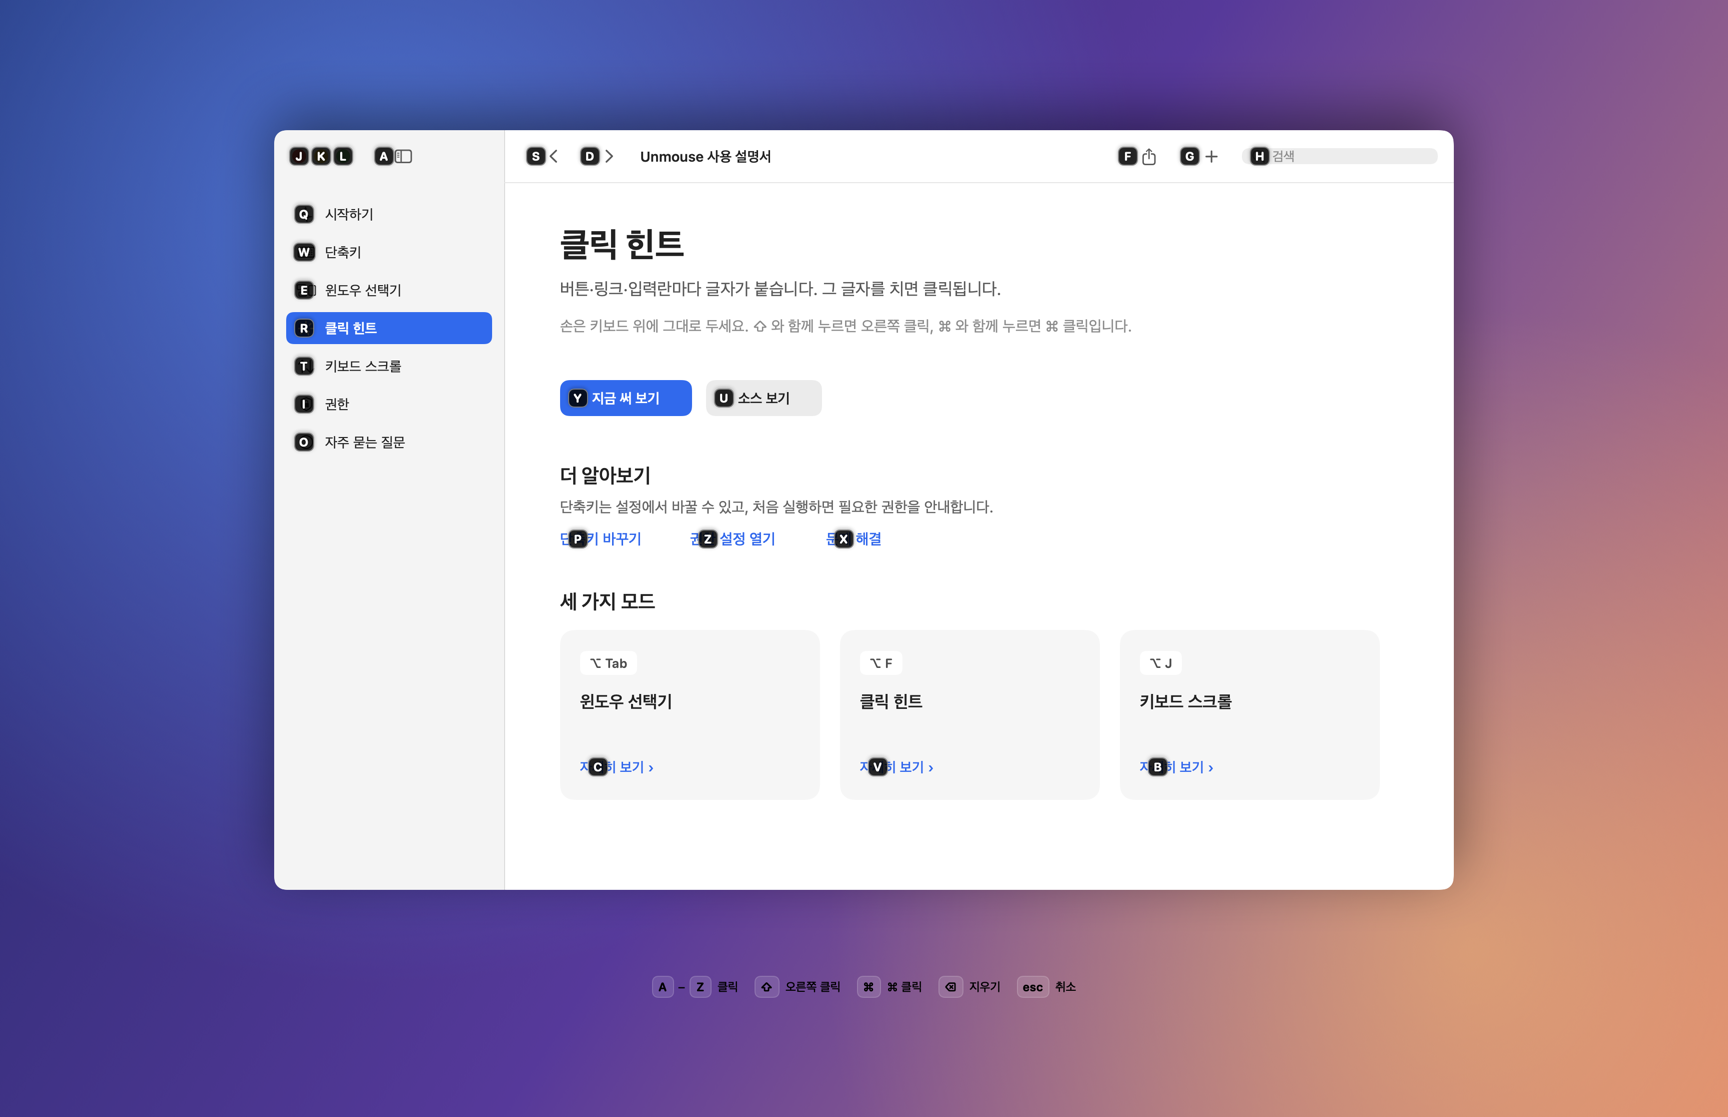
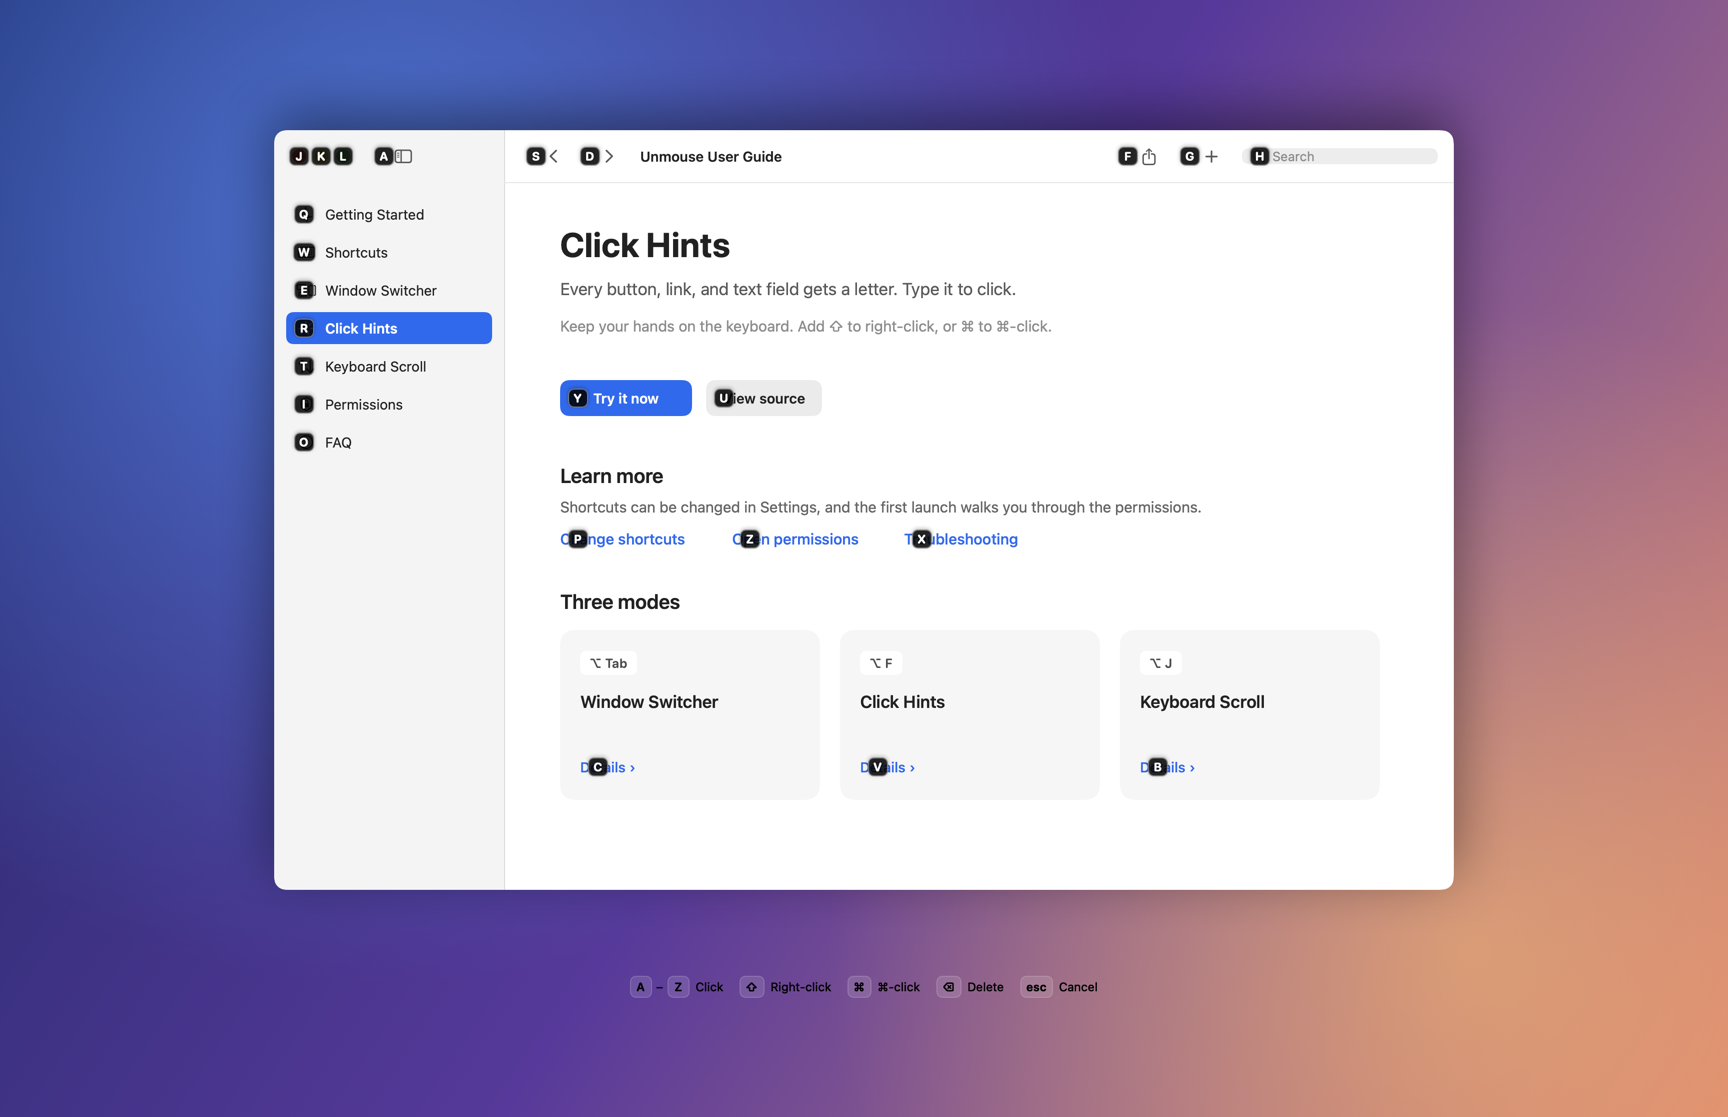
docs: regenerate README screenshots with the English UI (#4)
- 소스의 UI 문자열을 영어로 바꾸고 String(localized:) / LocalizedStringKey 로 조회
- Resources/ko.lproj/Localizable.strings 에 한국어 번역 87개, en.lproj 추가
- Info.plist 개발 지역을 en 으로, CFBundleLocalizations 에 en·ko 지정
- build-app.sh 가 .lproj 를 앱 번들에 복사
- 데모 목업과 README 스크린샷을 영어로 다시 생성, README 에 번역 안내 추가

diff --git a/Sources/Unmouse/Demo.swift b/Sources/Unmouse/Demo.swift
@@ -15,15 +15,15 @@ enum Demo {
 
         // 윈도우 선택기
         let mocks: [(app: String, title: String, path: String, frame: CGRect, location: WindowInfo.Location, view: AnyView)] = [
-            ("Safari", "Unmouse 사용 설명서", "/Applications/Safari.app",
+            ("Safari", "Unmouse User Guide", "/Applications/Safari.app",
              CGRect(x: 90, y: 70, width: 1180, height: 760), .visible, AnyView(MockDocument())),
-            ("터미널", "unmouse — zsh", "/System/Applications/Utilities/Terminal.app",
+            ("Terminal", "unmouse — zsh", "/System/Applications/Utilities/Terminal.app",
              CGRect(x: 940, y: 560, width: 720, height: 460), .visible, AnyView(MockTerminal())),
-            ("메모", "회의 메모", "/System/Applications/Notes.app",
+            ("Notes", "Meeting Notes", "/System/Applications/Notes.app",
              CGRect(x: 60, y: 600, width: 620, height: 440), .visible, AnyView(MockNotes())),
-            ("캘린더", "", "/System/Applications/Calendar.app",
-             CGRect(x: 0, y: 0, width: 980, height: 660), .otherSpace("데스크탑 2"), AnyView(MockCalendar())),
-            ("Finder", "문서", "/System/Library/CoreServices/Finder.app",
+            ("Calendar", "", "/System/Applications/Calendar.app",
+             CGRect(x: 0, y: 0, width: 980, height: 660), .otherSpace("Desktop 2"), AnyView(MockCalendar())),
+            ("Finder", "Documents", "/System/Library/CoreServices/Finder.app",
              CGRect(x: 0, y: 0, width: 860, height: 540), .minimized, AnyView(MockFinder())),
         ]
         var windows: [WindowInfo] = []
@@ -115,9 +115,9 @@ struct MockDocument: View {
     static let contentArea = CGRect(x: sidebarWidth, y: barHeight, width: size.width - sidebarWidth, height: size.height - barHeight)
 
     static let sidebarItems: [(String, String)] = [
-        ("sparkles", "시작하기"), ("keyboard", "단축키"), ("rectangle.3.group", "윈도우 선택기"),
-        ("cursorarrow.rays", "클릭 힌트"), ("arrow.up.arrow.down", "키보드 스크롤"),
-        ("lock.shield", "권한"), ("questionmark.circle", "자주 묻는 질문"),
+        ("sparkles", "Getting Started"), ("keyboard", "Shortcuts"), ("rectangle.3.group", "Window Switcher"),
+        ("cursorarrow.rays", "Click Hints"), ("arrow.up.arrow.down", "Keyboard Scroll"),
+        ("lock.shield", "Permissions"), ("questionmark.circle", "FAQ"),
     ]
     static let selectedRow = 3
     static func sidebarRow(_ index: Int) -> CGRect {
@@ -139,12 +139,12 @@ struct MockDocument: View {
     static let primaryButton = CGRect(x: contentX, y: 250, width: 132, height: 36)
     static let secondaryButton = CGRect(x: contentX + 146, y: 250, width: 116, height: 36)
     static let links: [(String, CGRect)] = [
-        ("단축키 바꾸기", CGRect(x: contentX, y: 398, width: 98, height: 22)),
-        ("권한 설정 열기", CGRect(x: contentX + 130, y: 398, width: 104, height: 22)),
-        ("문제 해결", CGRect(x: contentX + 266, y: 398, width: 68, height: 22)),
+        ("Change shortcuts", CGRect(x: contentX, y: 398, width: 140, height: 22)),
+        ("Open permissions", CGRect(x: contentX + 172, y: 398, width: 140, height: 22)),
+        ("Troubleshooting", CGRect(x: contentX + 344, y: 398, width: 130, height: 22)),
     ]
     static let cards: [(String, String, CGRect)] = (0..<3).map { index in
-        let titles = ["윈도우 선택기", "클릭 힌트", "키보드 스크롤"]
+        let titles = ["Window Switcher", "Click Hints", "Keyboard Scroll"]
         let keys = ["⌥ Tab", "⌥ F", "⌥ J"]
         return (titles[index], keys[index], CGRect(x: contentX + CGFloat(index) * 280, y: 500, width: 260, height: 170))
     }
@@ -178,13 +178,13 @@ struct MockDocument: View {
             }
             HStack(spacing: 6) {
                 Image(systemName: "magnifyingglass")
-                Text("검색")
+                Text("Search")
                 Spacer()
             }
             .font(.system(size: 13)).foregroundStyle(faint).padding(.horizontal, 9)
             .background(Color(white: 0.93), in: RoundedRectangle(cornerRadius: 7, style: .continuous))
             .place(Self.searchField)
-            Text("Unmouse 사용 설명서").font(.system(size: 14, weight: .semibold)).foregroundStyle(ink)
+            Text("Unmouse User Guide").font(.system(size: 14, weight: .semibold)).foregroundStyle(ink)
                 .place(CGRect(x: 366, y: 12, width: 400, height: 28))
 
             ForEach(Array(Self.sidebarItems.enumerated()), id: \.offset) { index, item in
@@ -202,34 +202,34 @@ struct MockDocument: View {
                 .place(Self.sidebarRow(index))
             }
 
-            Text("클릭 힌트").font(.system(size: 34, weight: .bold)).foregroundStyle(ink)
+            Text("Click Hints").font(.system(size: 34, weight: .bold)).foregroundStyle(ink)
                 .place(CGRect(x: Self.contentX, y: 92, width: 600, height: 44))
-            Text("버튼·링크·입력란마다 글자가 붙습니다. 그 글자를 치면 클릭됩니다.")
+            Text("Every button, link, and text field gets a letter. Type it to click.")
                 .font(.system(size: 17)).foregroundStyle(Color(white: 0.35))
                 .place(CGRect(x: Self.contentX, y: 146, width: 800, height: 26))
-            Text("손은 키보드 위에 그대로 두세요. ⇧ 와 함께 누르면 오른쪽 클릭, ⌘ 와 함께 누르면 ⌘ 클릭입니다.")
+            Text("Keep your hands on the keyboard. Add ⇧ to right-click, or ⌘ to ⌘-click.")
                 .font(.system(size: 15)).foregroundStyle(faint)
                 .place(CGRect(x: Self.contentX, y: 184, width: 800, height: 24))
 
-            Text("지금 써 보기").font(.system(size: 14, weight: .semibold)).foregroundStyle(.white)
+            Text("Try it now").font(.system(size: 14, weight: .semibold)).foregroundStyle(.white)
                 .frame(maxWidth: .infinity, maxHeight: .infinity)
                 .background(link, in: RoundedRectangle(cornerRadius: 9, style: .continuous))
                 .place(Self.primaryButton)
-            Text("소스 보기").font(.system(size: 14, weight: .semibold)).foregroundStyle(ink)
+            Text("View source").font(.system(size: 14, weight: .semibold)).foregroundStyle(ink)
                 .frame(maxWidth: .infinity, maxHeight: .infinity)
                 .background(Color(white: 0.92), in: RoundedRectangle(cornerRadius: 9, style: .continuous))
                 .place(Self.secondaryButton)
 
-            Text("더 알아보기").font(.system(size: 20, weight: .semibold)).foregroundStyle(ink)
+            Text("Learn more").font(.system(size: 20, weight: .semibold)).foregroundStyle(ink)
                 .place(CGRect(x: Self.contentX, y: 332, width: 400, height: 28))
-            Text("단축키는 설정에서 바꿀 수 있고, 처음 실행하면 필요한 권한을 안내합니다.")
+            Text("Shortcuts can be changed in Settings, and the first launch walks you through the permissions.")
                 .font(.system(size: 15)).foregroundStyle(Color(white: 0.4))
                 .place(CGRect(x: Self.contentX, y: 366, width: 800, height: 22))
             ForEach(Self.links, id: \.0) { title, rect in
                 Text(title).font(.system(size: 15, weight: .medium)).foregroundStyle(link).place(rect)
             }
 
-            Text("세 가지 모드").font(.system(size: 20, weight: .semibold)).foregroundStyle(ink)
+            Text("Three modes").font(.system(size: 20, weight: .semibold)).foregroundStyle(ink)
                 .place(CGRect(x: Self.contentX, y: 458, width: 400, height: 28))
             ForEach(Self.cards, id: \.0) { title, key, rect in
                 RoundedRectangle(cornerRadius: 14, style: .continuous).fill(Color(white: 0.965)).place(rect)
@@ -239,7 +239,7 @@ struct MockDocument: View {
                     .place(CGRect(x: rect.minX + 20, y: rect.minY + 20, width: 200, height: 26))
                 Text(title).font(.system(size: 17, weight: .semibold)).foregroundStyle(ink)
                     .place(CGRect(x: rect.minX + 20, y: rect.minY + 60, width: 220, height: 24))
-                Text("자세히 보기 ›").font(.system(size: 14, weight: .medium)).foregroundStyle(link)
+                Text("Details ›").font(.system(size: 14, weight: .medium)).foregroundStyle(link)
                     .place(Self.cardLink(rect))
             }
         }
@@ -285,7 +285,7 @@ struct MockTerminal: View {
 }
 
 struct MockNotes: View {
-    private let items = ["힌트 글자를 홈 로우부터 배정", "스크롤 영역 전환은 Tab", "설정 창도 키보드만으로", "README 에 예시 화면 추가"]
+    private let items = ["Assign hint letters from the home row", "Tab switches the scroll area", "Keyboard-only settings window", "Add screenshots to the README"]
 
     var body: some View {
         VStack(alignment: .leading, spacing: 0) {
@@ -296,8 +296,8 @@ struct MockNotes: View {
             }
             .padding(.horizontal, 16).frame(height: 40)
             VStack(alignment: .leading, spacing: 14) {
-                Text("회의 메모").font(.system(size: 28, weight: .bold))
-                Text("이번 주 할 일").font(.system(size: 16)).foregroundStyle(Color(white: 0.45))
+                Text("Meeting Notes").font(.system(size: 28, weight: .bold))
+                Text("This week").font(.system(size: 16)).foregroundStyle(Color(white: 0.45))
                 ForEach(Array(items.enumerated()), id: \.offset) { index, item in
                     HStack(spacing: 10) {
                         Image(systemName: index < 2 ? "checkmark.circle.fill" : "circle")
@@ -318,22 +318,22 @@ struct MockNotes: View {
 
 struct MockCalendar: View {
     private let events: [Int: (String, Color)] = [
-        4: ("디자인 리뷰", .blue), 9: ("배포", .green), 12: ("점심 약속", .orange),
-        17: ("회고", .purple), 23: ("릴리스 노트", .blue), 26: ("휴가", .pink),
+        4: ("Design review", .blue), 9: ("Deploy", .green), 12: ("Lunch", .orange),
+        17: ("Retro", .purple), 23: ("Release notes", .blue), 26: ("Vacation", .pink),
     ]
 
     var body: some View {
         VStack(spacing: 0) {
             HStack(spacing: 8) {
                 ForEach(0..<3, id: \.self) { Circle().fill([Color.red, Color.yellow, Color.green][$0].opacity(0.9)).frame(width: 13, height: 13) }
-                Text("11월").font(.system(size: 24, weight: .bold)).padding(.leading, 16)
+                Text("November").font(.system(size: 24, weight: .bold)).padding(.leading, 16)
                 Spacer()
-                Text("오늘").font(.system(size: 14, weight: .medium)).padding(.horizontal, 12).padding(.vertical, 5)
+                Text("Today").font(.system(size: 14, weight: .medium)).padding(.horizontal, 12).padding(.vertical, 5)
                     .background(Color(white: 0.92), in: Capsule())
             }
             .padding(.horizontal, 16).frame(height: 56)
             HStack(spacing: 0) {
-                ForEach(["일", "월", "화", "수", "목", "금", "토"], id: \.self) {
+                ForEach(["Sun", "Mon", "Tue", "Wed", "Thu", "Fri", "Sat"], id: \.self) {
                     Text($0).font(.system(size: 13, weight: .medium)).foregroundStyle(Color(white: 0.5)).frame(maxWidth: .infinity)
                 }
             }
@@ -369,13 +369,13 @@ struct MockCalendar: View {
 }
 
 struct MockFinder: View {
-    private let folders = ["디자인", "문서", "스크린샷", "프로젝트", "참고 자료", "보관함", "초안", "릴리스"]
+    private let folders = ["Design", "Documents", "Screenshots", "Projects", "References", "Archive", "Drafts", "Releases"]
 
     var body: some View {
         VStack(spacing: 0) {
             HStack(spacing: 8) {
                 ForEach(0..<3, id: \.self) { Circle().fill([Color.red, Color.yellow, Color.green][$0].opacity(0.9)).frame(width: 13, height: 13) }
-                Text("문서").font(.system(size: 15, weight: .semibold)).padding(.leading, 16)
+                Text("Documents").font(.system(size: 15, weight: .semibold)).padding(.leading, 16)
                 Spacer()
                 Image(systemName: "square.grid.2x2").foregroundStyle(Color(white: 0.4))
             }

diff --git a/README.md b/README.md
@@ -11,8 +11,6 @@ Switching windows, clicking, scrolling — the three moments your hand used to r
 
 All three shortcuts can be changed in Settings.
 
-> **Note:** The screenshots below show the Korean interface.
-
 ![Window switcher — open windows laid out as previews, each labeled with a letter](docs/images/switcher.png)
 
 ## Window switcher — `⌥Tab`
